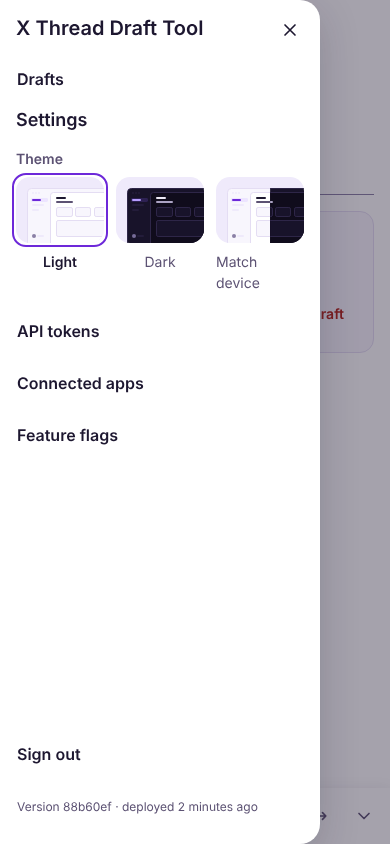
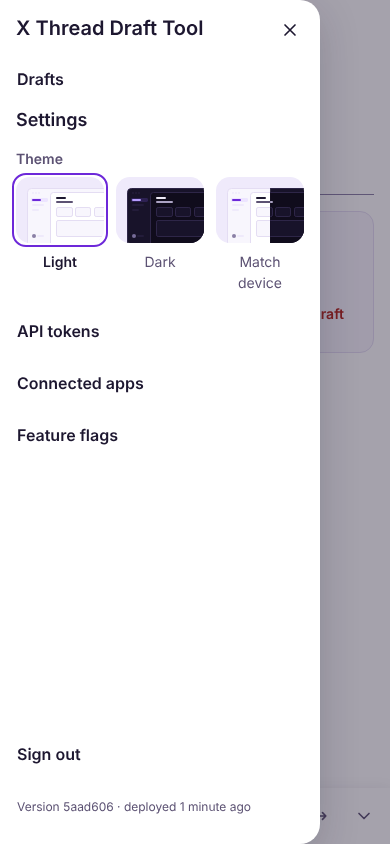
fix(lint): catch Tailwind theme values with suffixes and important (#406 K1)
Review fixes for the Rare UI theme selector: the Tailwind rule now reads
values with a dash or a /opacity part (bg-red-500, border-black/10) and
the ! important suffix (p-4!). The label is centred, the header lists the
controlled-only contract, and the licence file says full-width cards.

Claude-Session: https://claude.ai/code/session_01UU4t2EyRNsMKPTSJkXwzQW

diff --git a/tests/unit/design-tokens.test.js b/tests/unit/design-tokens.test.js
@@ -93,7 +93,7 @@ export function lintCss(text, fileHasFocusVisible = /:focus-visible/.test(text))
 // so a value comes from a token: p-(--space-4), bg-(--color-surface), text-(length:--font-size-sm) or
 // [font-weight:var(--font-weight-semibold)]. Inside [ ] only relative values (%, cqw, fractions, var()) pass.
 const RARE_DIR = 'src/ui/rare/'
-const TW_SCALED = /^-?(p|px|py|ps|pe|pt|pb|m|mx|my|ms|me|mt|mb|gap|gap-x|gap-y|w|h|size|min-w|min-h|max-w|max-h|inset|inset-x|inset-y|top|bottom|start|end|text|bg|border|rounded(-[a-z]{1,2})?|shadow|font|leading|tracking|duration|delay|ease|z|ring|outline|stroke|fill|translate-x|translate-y|space-x|space-y)-[a-z0-9.]+$/
+const TW_SCALED = /^-?(p|px|py|ps|pe|pt|pb|m|mx|my|ms|me|mt|mb|gap|gap-x|gap-y|w|h|size|min-w|min-h|max-w|max-h|inset|inset-x|inset-y|top|bottom|start|end|text|bg|border|rounded(-[a-z]{1,2})?|shadow|font|leading|tracking|duration|delay|ease|z|ring|outline|stroke|fill|translate-x|translate-y|space-x|space-y)-[a-z0-9.-]+(\/[a-z0-9.]+)?$/
 const TW_STATIC = new Set(['w-full', 'h-full', 'size-full', 'w-max', 'border-0', 'bg-transparent', 'text-start', 'text-center', 'text-end', 'mt-auto', 'ms-auto', 'me-auto'])
 const TW_PHYSICAL = /^-?(left|right|ml|mr|pl|pr|border-[lr]|rounded-[lr]|rounded-(tl|tr|bl|br)|scroll-m[lr]|scroll-p[lr])-|^text-(left|right)$/
 
@@ -102,7 +102,7 @@ function tailwindRules(js) {
   for (const [, , text] of js.matchAll(/(['"`])((?:\\.|(?!\1)[^\\])*)\1/g)) {
     for (const cls of text.split(/\s+/).filter(Boolean)) {
       const parts = cls.split(/:(?![^[(]*[\])])/)
-      const utility = parts.at(-1)
+      const utility = parts.at(-1).replace(/^!|!$/g, '')
       if (parts.slice(0, -1).includes('dark')) broken.add('tw-dark')
       if (utility === 'outline-none') broken.add('tw-outline-none')
       if (TW_PHYSICAL.test(utility)) broken.add('tw-physical')
@@ -196,8 +196,9 @@ describe('token lint: self-check', () => {
 
   it('reports each Tailwind rule in a Rare UI file and nothing on a clean one', () => {
     const file = 'src/ui/rare/X.jsx'
-    expect(lintJs('const a = <b className="bg-[#fff] dark:bg-(--color-bg) left-(--space-0) outline-none p-4" />', file)).toEqual(['tw-arbitrary', 'tw-dark', 'tw-outline-none', 'tw-physical', 'tw-theme-value'])
+    expect(lintJs('const a = <b className="bg-[#fff] dark:bg-(--color-bg) left-(--space-0) outline-none p-4 p-4!" />', file)).toEqual(['tw-arbitrary', 'tw-dark', 'tw-outline-none', 'tw-physical', 'tw-theme-value'])
     expect(lintJs('const a = <b className="h-[3px] text-sm" />', file)).toEqual(['tw-arbitrary', 'tw-theme-value'])
+    expect(lintJs('const a = <b className="bg-red-500 border-black/10" />', file)).toEqual(['tw-theme-value'])
     expect(lintJs('const a = <b className="p-(--space-4) text-(length:--font-size-sm) start-[13cqw] aspect-[4/3] w-full [color-scheme:dark] rtl:[clip-path:polygon(0_0,100%_50%,0_100%)]" />', file)).toEqual([])
     expect(lintJs('const a = <b className="p-4 bg-[#fff]" />', 'src/components/X.jsx')).toEqual([])
   })

diff --git a/src/ui/rare/ThemeSelector.jsx b/src/ui/rare/ThemeSelector.jsx
@@ -8,6 +8,7 @@
  * (light and dark halves); a visible legend; a three-column grid that fits the menu drawer; logical
  * (start/end) positions; arrow keys follow the reading direction; the base focus ring; ui-rare-* classes for
  * the UI audit.
+ * Controlled only (no defaultValue, disabled, labels, className or rest props); the group is named with aria-labelledby; reduced motion goes through the duration tokens.
  */
 import { useId, useRef } from 'react'
 import '../../styles/rare-kit.css'
@@ -148,7 +149,7 @@ export default function ThemeSelector({ legend, value, options, onChange }) {
                 aria-hidden="true"
                 data-slot="theme-selector-label"
                 className={cn(
-                  'ui-rare-theme__label text-(length:--font-size-sm) transition-colors duration-(--duration-fast) ease-(--ease-standard)',
+                  'ui-rare-theme__label text-center text-(length:--font-size-sm) transition-colors duration-(--duration-fast) ease-(--ease-standard)',
                   active ? 'text-(--color-text) [font-weight:var(--font-weight-semibold)]' : 'text-(--color-text-soft)'
                 )}
               >

diff --git a/THIRD_PARTY_LICENSES/rare-ui.md b/THIRD_PARTY_LICENSES/rare-ui.md
@@ -9,7 +9,7 @@ Source: https://github.com/swamimalode07/rare-ui/tree/0e9f0ef86bd690b16175fb8195
 | `src/ui/rare/cn.js` | `lib/utils.ts` (`cn`, rewritten without clsx and tailwind-merge) | #406 Task K1 |
 
 Changes: listed in the header comment of each file (TypeScript removed, values from `src/styles/tokens.css`,
-logical properties, 44 px targets, accessible names). Each header keeps the copyright notice.
+logical properties, full-width cards, accessible names). Each header keeps the copyright notice.
 
 Credit: the Feature flags page (`/settings/flags`) links to https://rareui.com, as the licence asks, and
 README.md names Rare UI under Credits.
